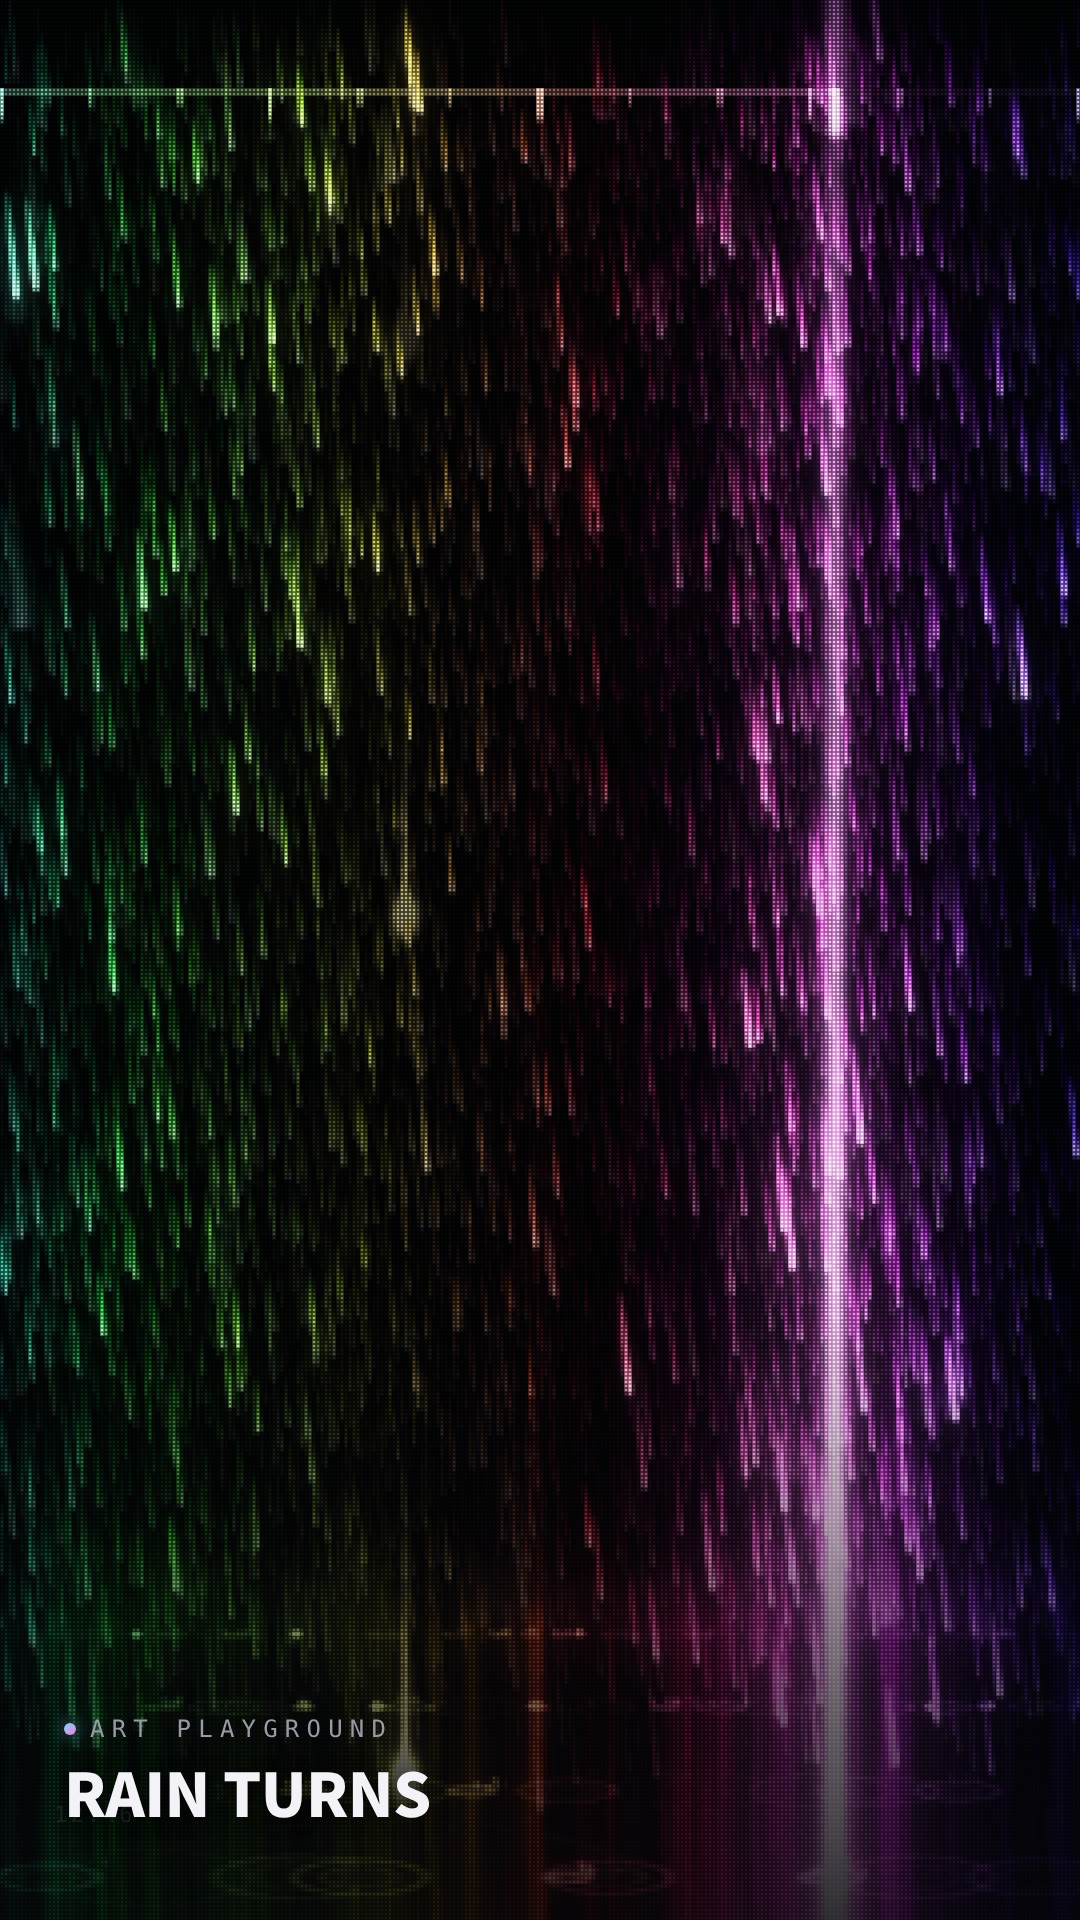
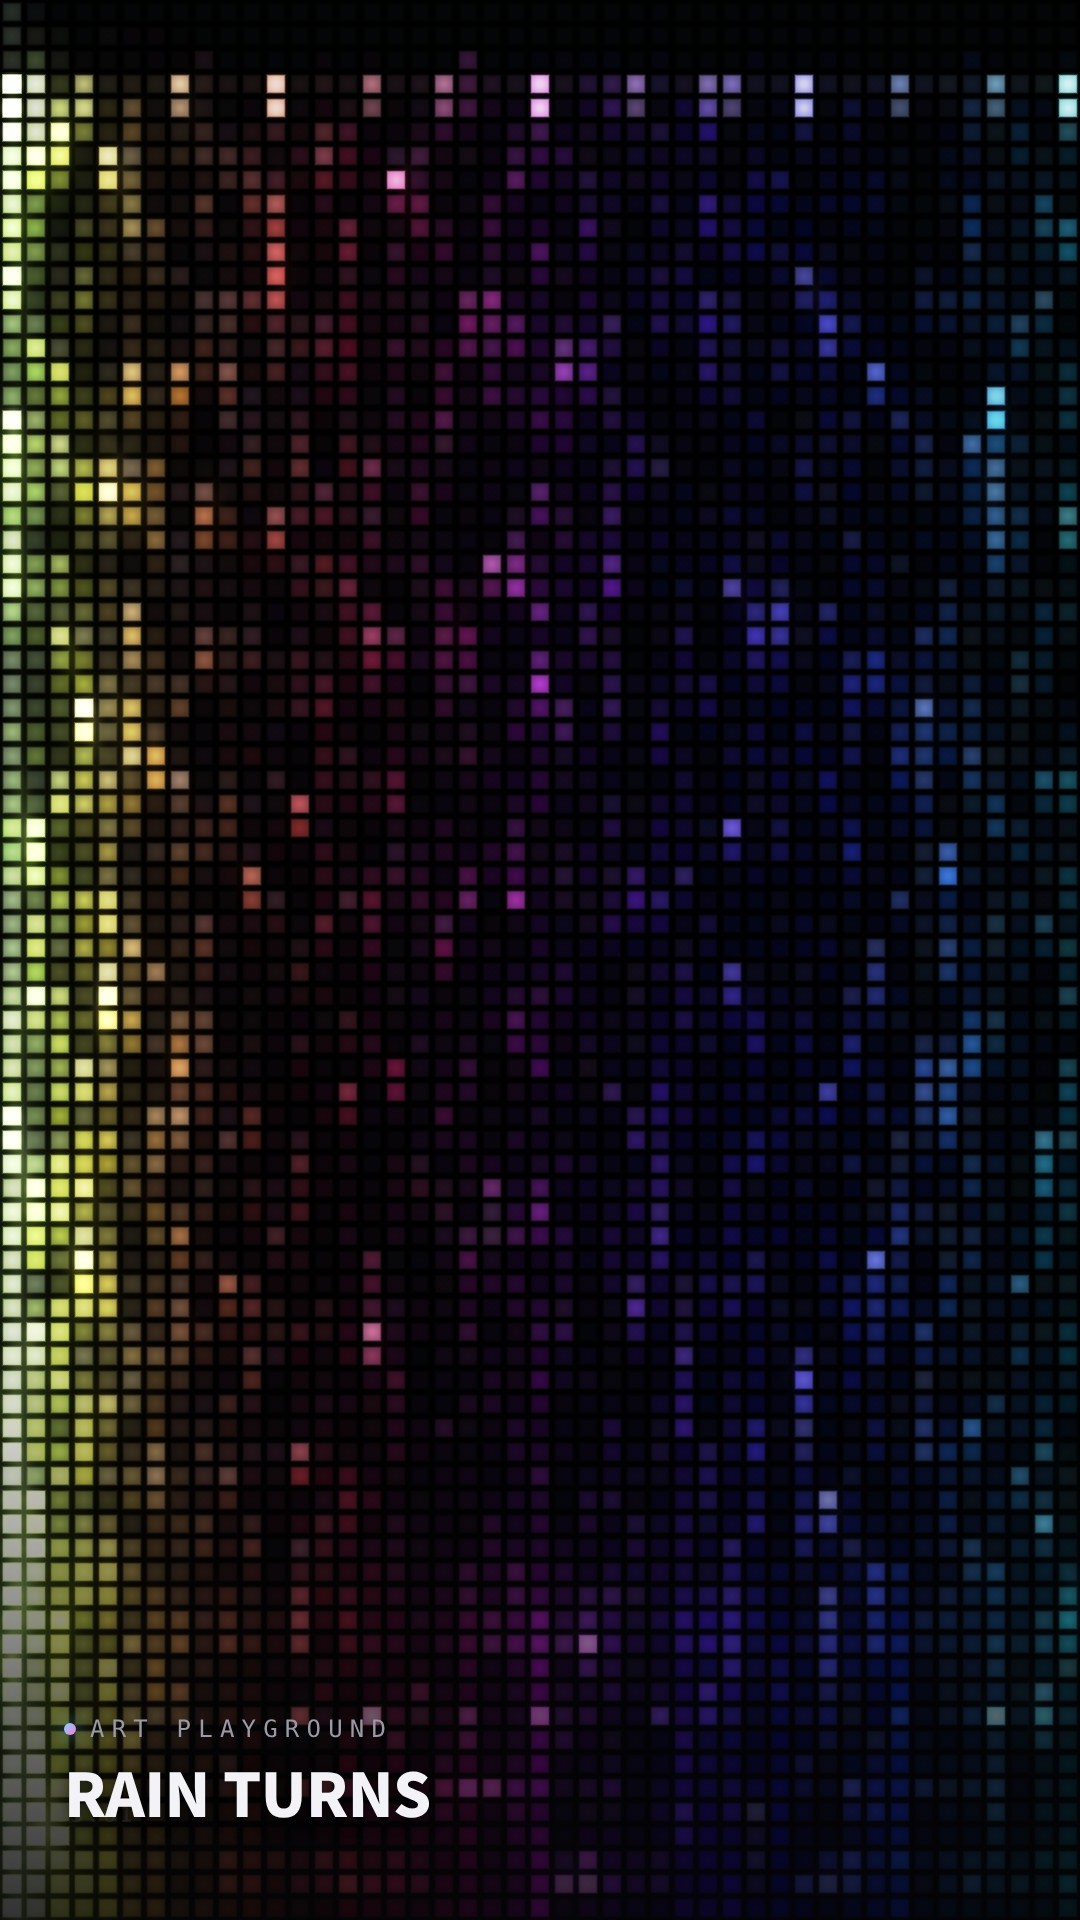
RAIN TURNS: add dual grain mode (back=XL cells, front=small) via ?cell=dual
Back layer renders the rain magnified with 12px LED cells, front layer
keeps the 2px fine rain. Not added to the automatic per-minute cycle.

Claude-Session: https://claude.ai/code/session_019C65K2NCmDDLr2MsA9MRnb

diff --git a/art-v128-rain-turns.html b/art-v128-rain-turns.html
@@ -198,7 +198,7 @@ FS_HEAD+'uniform sampler2D u_tex;uniform vec2 u_step,u_inv;uniform float u_thr;o
 ' s+=(f(texture(u_tex,uv+u_step*4.).rgb)+f(texture(u_tex,uv-u_step*4.).rgb))*.016;\n'+
 ' o=vec4(s,1.);}');
 var compP=prog('#version 300 es\nlayout(location=0) in vec2 p;void main(){gl_Position=vec4(p,0.,1.);}',
-FS_HEAD+'uniform sampler2D u_a,u_b,u_c,u_m,u_l;uniform vec2 u_inv;uniform float u_cell,u_led,u_mk,u_hue,u_t,u_mf,u_top,u_px;out vec4 o;\n'+COMMON+
+FS_HEAD+'uniform sampler2D u_a,u_b,u_c,u_m,u_l,u_l2;uniform vec2 u_inv;uniform float u_cell2,u_dual,u_cell,u_led,u_mk,u_hue,u_t,u_mf,u_top,u_px;out vec4 o;\n'+COMMON+
 'float hsh(vec2 p){return fract(sin(dot(p,vec2(127.1,311.7)))*43758.5453);}\n'+
 'void main(){vec2 uv=gl_FragCoord.xy*u_inv;\n'+
 ' vec3 c;\n'+
@@ -224,29 +224,38 @@ FS_HEAD+'uniform sampler2D u_a,u_b,u_c,u_m,u_l;uniform vec2 u_inv;uniform float 
 '   vq=vq*(1.-.45*min(1.,line+tick))+tc;}\n'+
 '  float glow=exp(-dot(f,f)*7.)*.35;\n'+                                          // 一粒ずつのにじみ
 '  c=vq*(led*1.6+glow)*seam+vec3(off*.8,off*.85,off)+texture(u_b,uv).rgb*.45+texture(u_c,uv).rgb*.6;\n'+
+'  if(u_dual>.5){vec2 cid2=floor(gl_FragCoord.xy/u_cell2);vec2 f2=fract(gl_FragCoord.xy/u_cell2)-.5;vec3 v2=texelFetch(u_l2,ivec2(cid2),0).rgb;\n'+
+'   float d2=max(abs(f2.x),abs(f2.y))*2.;float led2=smoothstep(.86,.62,d2)*(1.+.35*(1.-length(f2)*2.));float glow2=exp(-dot(f2,f2)*7.)*.35;\n'+
+'   vec3 back=v2*(led2*1.6+glow2)*.7;float fl=max(max(c.r,c.g),c.b);c+=back*(1.-clamp(fl*1.3,0.,1.));}\n'+
 ' }else{float mk=smoothstep(.25,.6,texture(u_m,uv).r)*u_mk;vec3 a=texture(u_a,uv).rgb;float lm=max(max(a.r,a.g),a.b);c=mix(a,vec3(1.,.82,.45)*lm*1.35,mk)+texture(u_b,uv).rgb*.55+texture(u_c,uv).rgb*.8;}\n'+
 ' c=c/(1.+max(c-.8,0.)*.8);o=vec4(c,1.);}');
 // ---------- LEDの粒ごとの明るさ(1粒=1テクセル)。粒の中を9点で拾って平均と最大の間をとり、前のコマから滑らかにつなぐ(点くときは素早く、消えるときは少し残光) ----------
 var cellP=prog('#version 300 es\nlayout(location=0) in vec2 p;void main(){gl_Position=vec4(p,0.,1.);}',
-FS_HEAD+'uniform sampler2D u_a,u_p;uniform vec2 u_inv;uniform float u_cell,u_up,u_dec,u_first;out vec4 o;\n'+
+FS_HEAD+'uniform sampler2D u_a,u_p;uniform vec2 u_inv;uniform vec4 u_xf;uniform float u_cell,u_up,u_dec,u_first;out vec4 o;\n'+
 'float hsh(vec2 p){return fract(sin(dot(p,vec2(127.1,311.7)))*43758.5453);}\n'+
-'void main(){vec2 cid=floor(gl_FragCoord.xy);vec2 cc=(cid+.5)*u_cell*u_inv;vec2 st=u_cell*u_inv/3.;\n'+
+'void main(){vec2 cid=floor(gl_FragCoord.xy);vec2 cc=(cid+.5)*u_cell*u_inv*u_xf.xy+u_xf.zw;vec2 st=u_cell*u_inv*u_xf.xy/3.;\n'+
 ' vec3 sm=vec3(0.),mx=vec3(0.);for(int j=-1;j<=1;j++)for(int i=-1;i<=1;i++){vec3 x=texture(u_a,cc+vec2(float(i),float(j))*st).rgb;sm+=x;mx=max(mx,x);}\n'+
 ' vec3 v=mix(sm/9.*1.3,mx,.5);v=pow(max(v-.03,0.),vec3(1.35))*2.2;v*=.92+.16*hsh(cid);\n'+
 ' float lum=max(max(v.r,v.g),v.b);v/=max(lum,1.);\n'+
 ' vec3 pv=texelFetch(u_p,ivec2(cid),0).rgb;\n'+
 ' vec3 r=mix(max(v,pv*u_dec),mix(pv,v,u_up),step(pv,v));\n'+
 ' o=vec4(u_first>.5?v:r,1.);}');
-var cellRT=null,cellIdx=0,cellFirst=true;
+var cellSets=[{rt:null,idx:0,first:true},{rt:null,idx:0,first:true}];   // 0=前(手前の粒)・1=奥(2026/11/28「奥に特大、前に小」)
 function mkCellRT(w,h){var t=gl.createTexture();gl.bindTexture(gl.TEXTURE_2D,t);gl.texImage2D(gl.TEXTURE_2D,0,gl.RGBA8,w,h,0,gl.RGBA,gl.UNSIGNED_BYTE,null);
   gl.texParameteri(gl.TEXTURE_2D,gl.TEXTURE_MIN_FILTER,gl.NEAREST);gl.texParameteri(gl.TEXTURE_2D,gl.TEXTURE_MAG_FILTER,gl.NEAREST);
   gl.texParameteri(gl.TEXTURE_2D,gl.TEXTURE_WRAP_S,gl.CLAMP_TO_EDGE);gl.texParameteri(gl.TEXTURE_2D,gl.TEXTURE_WRAP_T,gl.CLAMP_TO_EDGE);
   var f=gl.createFramebuffer();gl.bindFramebuffer(gl.FRAMEBUFFER,f);gl.framebufferTexture2D(gl.FRAMEBUFFER,gl.COLOR_ATTACHMENT0,gl.TEXTURE_2D,t,0);
   gl.bindFramebuffer(gl.FRAMEBUFFER,null);return {t:t,f:f,w:w,h:h};}
-function ensureCellRT(cpx){var w=Math.ceil(W/cpx)+1,h=Math.ceil(H/cpx)+1;
-  if(cellRT&&cellRT[0].w===w&&cellRT[0].h===h)return;
-  if(cellRT)cellRT.forEach(function(r){gl.deleteTexture(r.t);gl.deleteFramebuffer(r.f);});
-  cellRT=[mkCellRT(w,h),mkCellRT(w,h)];cellFirst=true;}
+function ensureCellRT(set,cpx){var w=Math.ceil(W/cpx)+1,h=Math.ceil(H/cpx)+1;
+  if(set.rt&&set.rt[0].w===w&&set.rt[0].h===h)return;
+  if(set.rt)set.rt.forEach(function(r){gl.deleteTexture(r.t);gl.deleteFramebuffer(r.f);});
+  set.rt=[mkCellRT(w,h),mkCellRT(w,h)];set.first=true;}
+function runCell(set,cpx,xf,dt){ensureCellRT(set,cpx);var cdst=set.rt[set.idx],csrc=set.rt[1-set.idx];
+  gl.bindFramebuffer(gl.FRAMEBUFFER,cdst.f);gl.viewport(0,0,cdst.w,cdst.h);gl.useProgram(cellP.p);
+  gl.activeTexture(gl.TEXTURE0);gl.bindTexture(gl.TEXTURE_2D,RT.sc.t);gl.uniform1i(cellP.u.u_a,0);
+  gl.activeTexture(gl.TEXTURE1);gl.bindTexture(gl.TEXTURE_2D,csrc.t);gl.uniform1i(cellP.u.u_p,1);
+  gl.uniform2f(cellP.u.u_inv,1/W,1/H);gl.uniform4f(cellP.u.u_xf,xf[0],xf[1],xf[2],xf[3]);gl.uniform1f(cellP.u.u_cell,cpx);gl.uniform1f(cellP.u.u_up,1-Math.exp(-dt*45));gl.uniform1f(cellP.u.u_dec,Math.exp(-dt*11));gl.uniform1f(cellP.u.u_first,set.first?1:0);
+  gl.drawArrays(gl.TRIANGLE_STRIP,0,4);set.first=false;set.idx=1-set.idx;}
 function mkRT(w,h){var t=gl.createTexture();gl.bindTexture(gl.TEXTURE_2D,t);gl.texImage2D(gl.TEXTURE_2D,0,gl.RGBA8,w,h,0,gl.RGBA,gl.UNSIGNED_BYTE,null);
   gl.texParameteri(gl.TEXTURE_2D,gl.TEXTURE_MIN_FILTER,gl.LINEAR);gl.texParameteri(gl.TEXTURE_2D,gl.TEXTURE_MAG_FILTER,gl.LINEAR);
   gl.texParameteri(gl.TEXTURE_2D,gl.TEXTURE_WRAP_S,gl.CLAMP_TO_EDGE);gl.texParameteri(gl.TEXTURE_2D,gl.TEXTURE_WRAP_T,gl.CLAMP_TO_EDGE);
@@ -320,10 +329,10 @@ function resize(){var s=dpr*qscale;W=Math.max(2,Math.round(innerWidth*s));H=Math
 addEventListener('resize',resize);resize();
 
 var hueBlk=null,hueT=0,hueV=0,rDir=1,rPh=0,phV=0,phH=0,dirV=1,dirH=1,wH=0,preV=0;var LED=Q.get('led')!=='0';
-var GRAIN=[8.4,12,16,24,4.2,2.1,0],GNAME=['LEDの粒: 大(約8px)','LEDの粒: 特大(約12px)','LEDの粒: 超特大(約16px)','LEDの粒: 巨大(約24px)','LEDの粒: 中(約4px)','LEDの粒: 小(約2px)','LEDなし(元の描き方)'],gi=0;   // 2026/11/28「あえて大きくした方がインパクトある」→ 既定は大   // 粒の大きさの見比べ(?cell=4/8/2/0 か下の▦ボタン)
+var GRAIN=[8.4,12,16,24,4.2,2.1,0,2.1],GNAME=['LEDの粒: 大(約8px)','LEDの粒: 特大(約12px)','LEDの粒: 超特大(約16px)','LEDの粒: 巨大(約24px)','LEDの粒: 中(約4px)','LEDの粒: 小(約2px)','LEDなし(元の描き方)','LEDの粒: 奥=特大(約12px)・前=小(約2px)'],gi=0;   // 2026/11/28「あえて大きくした方がインパクトある」→ 既定は大   // 粒の大きさの見比べ(?cell=4/8/2/0 か下の▦ボタン)
 var gAuto=true,gOff=0,AUTO_G=[0,1,2,3,5,6];   // 2026/11/28「7分一周はいかんなー」→ 中(4px)を外して6分で1周(1時間でちょうど10周、毎時0分は大から)   // 2026/11/28「2と元も入れてよ」→ 小(2px)とLEDなしも順番に入れる
    // 2026/11/28「1分おきに大きさを自動で変更にして」→ 毎分、大→特大→超特大→巨大→中 の順に粒が変わる(▦で順番を1つ進める)
-(function(){var c=Q.get('cell');if(c!==null){var k={'8':0,'12':1,'16':2,'24':3,'4':4,'2':5,'0':6}[c];if(k!==undefined){gi=k;gAuto=false;}}})();   // LEDパネル表示(?led=0 で元の描き方)
+(function(){var c=Q.get('cell');if(c!==null){var k={'8':0,'12':1,'16':2,'24':3,'4':4,'2':5,'0':6,'dual':7}[c];if(k!==undefined){gi=k;gAuto=false;}}})();   // LEDパネル表示(?led=0 で元の描き方)
 var touch={x:.5,y:.5,s:0,down:false};
 function setT(e){touch.x=e.clientX/innerWidth;touch.y=e.clientY/innerHeight;}
 addEventListener('pointerdown',function(e){if(window.APKit&&APKit.isUI&&APKit.isUI(e.clientX,e.clientY))return;touch.down=true;setT(e);touch.s=1;});
@@ -375,14 +384,11 @@ function frame(now){
   pass(blurP,RT.sc,RT.q1,3/W,0,.15);pass(blurP,RT.q1,RT.q2,0,1.6/RT.q1.h,0);
   pass(blurP,RT.q2,RT.e1,2.2/RT.q2.w,0,0);pass(blurP,RT.e1,RT.e2,0,2.2/RT.e1.h,0);
   var cpx=Math.max(2,Math.round(GRAIN[gi]*W/innerWidth)),useLed=LED&&GRAIN[gi]>0;
-  if(useLed){ensureCellRT(cpx);var cdst=cellRT[cellIdx],csrc=cellRT[1-cellIdx];
-    gl.bindFramebuffer(gl.FRAMEBUFFER,cdst.f);gl.viewport(0,0,cdst.w,cdst.h);gl.useProgram(cellP.p);
-    gl.activeTexture(gl.TEXTURE0);gl.bindTexture(gl.TEXTURE_2D,RT.sc.t);gl.uniform1i(cellP.u.u_a,0);
-    gl.activeTexture(gl.TEXTURE1);gl.bindTexture(gl.TEXTURE_2D,csrc.t);gl.uniform1i(cellP.u.u_p,1);
-    gl.uniform2f(cellP.u.u_inv,1/W,1/H);gl.uniform1f(cellP.u.u_cell,cpx);gl.uniform1f(cellP.u.u_up,1-Math.exp(-dt*45));gl.uniform1f(cellP.u.u_dec,Math.exp(-dt*11));gl.uniform1f(cellP.u.u_first,cellFirst?1:0);
-    gl.drawArrays(gl.TRIANGLE_STRIP,0,4);cellFirst=false;cellIdx=1-cellIdx;}
+  var dual=(gi===7)&&useLed;   // 奥=特大(約12px)・前=小(約2px)を同じ画面に重ねる(?cell=dual)
+  if(useLed){runCell(cellSets[0],cpx,[1,1,0,0],dt);if(dual)runCell(cellSets[1],Math.max(2,Math.round(12*W/innerWidth)),[.82,.82,.09,.04],dt);}
   gl.bindFramebuffer(gl.FRAMEBUFFER,null);gl.viewport(0,0,W,H);gl.useProgram(compP.p);
-  if(useLed){gl.activeTexture(gl.TEXTURE4);gl.bindTexture(gl.TEXTURE_2D,cellRT[1-cellIdx].t);gl.uniform1i(compP.u.u_l,4);}
+  if(useLed){gl.activeTexture(gl.TEXTURE4);gl.bindTexture(gl.TEXTURE_2D,cellSets[0].rt[1-cellSets[0].idx].t);gl.uniform1i(compP.u.u_l,4);}
+  gl.uniform1f(compP.u.u_dual,dual?1:0);if(dual){gl.activeTexture(gl.TEXTURE5);gl.bindTexture(gl.TEXTURE_2D,cellSets[1].rt[1-cellSets[1].idx].t);gl.uniform1i(compP.u.u_l2,5);gl.uniform1f(compP.u.u_cell2,Math.max(2,Math.round(12*W/innerWidth)));}
   gl.activeTexture(gl.TEXTURE0);gl.bindTexture(gl.TEXTURE_2D,RT.sc.t);gl.uniform1i(compP.u.u_a,0);
   gl.activeTexture(gl.TEXTURE1);gl.bindTexture(gl.TEXTURE_2D,RT.q2.t);gl.uniform1i(compP.u.u_b,1);
   gl.activeTexture(gl.TEXTURE2);gl.bindTexture(gl.TEXTURE_2D,RT.e2.t);gl.uniform1i(compP.u.u_c,2);

diff --git a/CHANGELOG.md b/CHANGELOG.md
@@ -1,3 +1,4 @@
+- 2026-11-28 クロちゃん: RAIN TURNS(art-v128)に「奥=特大・前=小」を同じ画面に重ねる粒の表示を追加(おっちゃん「特大と小は同じに描写できる？」→「同じ画面によ、奥に特大、前に小」)。`?cell=dual`で出す。前は小(約2px)の細かい雨、奥は同じ雨を少し拡大してずらし、特大(約12px)の粒で描いて前の雨の暗いところに透ける(前が明るい所は奥を弱める)。目盛り・光の柱・一滴は前の小の粒のもの。cellP(粒ごとの明るさ)に読み取り位置の変換(u_xf)を足し、粒の状態をセット(前・奥)に整理。**毎分の自動の順番(6分で1周)には入れていない**(7分1周がNGなので、どれと入れ替えるかおっちゃんの判断待ち)。▦ボタンの動きも変えていない。確認: ヘッドレスChromium・390×844で、?cell=dualと?cell=2を並べて目で確認、コンソールエラーなし、既定の表示で録画(mp4・720×1558)が通る。ポスター・OGPカード・IG縦型カバーはこの作品の分だけ作り直した。**スマホ実機での重さは未確認**(粒の計算の描画が1回増える。小さな描画先なので軽いはず)(art-v128-rain-turns.html, posters/, og/, reel/, CHANGELOG.md)
 - 2026-11-28 クロちゃん: BEAD CURTAINを採用・art-v129として昇格し、ギャラリーLOG先頭に追加、録画の対象にも追加(おっちゃん「これはこれで美しいね　採用で」「録画もね」。CURRENTの指定は無かったのでCURRENTはGLASS RELAYのまま)。`prototypes/bead-curtain.html`をコピーして、ap-kit.jsの相対パスをルート用に直し、冒頭に昇格の注記を追加(試作版は残す)。表示名はBEAD CURTAIN(元の仮名のまま)。LOGはRAIN TURNS(v128)の上。Published worksはRAIN TURNSの直後、`META`に操作ヒント「眺めるだけで光が糸を流れ落ちる。なぞると触れた糸に光が走る」、`REC_WORKS`に`art-v129-bead-curtain.html`、sitemap.xmlに`/art-v129-bead-curtain`を追加。`tools/poster-config.json`に`hide:#hint`・待ち3.5秒を1行追加(最初に出る操作説明がポスターに写らないように)。ポスター・OGPカード・IG縦型カバー(`reel/`)をこの作品の分だけ生成し、`gen_posters.py --check`・`gen_og.py --check`とも終了コード0(ポスターに文字は写っていないことを目視で確認)。確認: スマホ(Android Chrome)のUA・390×844のヘッドレスChromiumで、ギャラリーから`?open=`で開き、録画ボタンが出て、録画→停止でプレビューにmp4(720×1558・約3.9秒)ができ、作品と2行の透かしが映ることを確認。コンソールエラーは外部広告の読み込み失敗(テスト環境の制限)だけ。**スマホ実機での見た目・録画中の重さは未確認**(Canvas 2D、1フレームに糸約100本の玉を数千個描く。GPUなしの環境で約17fps。重い端末は糸の本数を自動で減らす。録画で重ければ`REC_WORKS`から外す)。メモ: `gen_og.py --reel --check`は、`reel/`に未登録の作品が多く(REC_WORKSなのにreel/に無いもの)終了コード1のまま。この昇格より前からの状態で、今回の作品の分はOK(art-v129-bead-curtain.html, prototypes/bead-curtain.html, index.html, posters/, og/, reel/, tools/poster-config.json, sitemap.xml, CHANGELOG.md)
 - 2026-11-28 クロちゃん: 新しい試作BEAD CURTAIN(仮、prototypes/bead-curtain.html)を追加(おっちゃん「(元動画と違くなったので)別作品としてやろうか」)。Starkapoo氏の元動画をフレーム解析して作りを写した: 細い糸が縦に並び糸の位置は動かない(ずれを測るとほぼ0)/糸の上に小さな縦長の玉が点線のように並ぶ/玉の明るい塊が糸ごとに違う速さでゆっくり流れ落ちる(降るのは光で、糸ではない)/奥にピントの外れた丸い光/画面中のくっきりした小さな火花/下ほど明るく、太い色の光の柱と下の虹のにじみ/色は横位置(左端=黄緑・橙→赤→マゼンタ→紫→青→シアン→右端=緑)。時計は元の「光の柱=分(横幅0〜59を1時間で左→右)・落ちる一滴=秒」と同じ考え方で、数字・文字は出さない(🕐でap-kitの時計)。✦=色をずらして光の塊を作り直す、↻=元に戻す、なぞると触れた糸に光が走る。色は20秒ごとに少しずつずれる。?t=HH:MM:SS、?hue=0〜1。Canvas 2D・Wake Lock。確認(ヘッドレスChromium・390×844・GPUなし): コンソールエラーなし、元動画と並べて目で比べて調整(最初は暗く粒がまばらだったので、糸を密に・玉を明るく・火花と光の柱を足した)、2枚の画面で動いていることを確認。GPUなしの環境では約17fpsだった(実機の値ではない)。奥の糸の玉と火花は間引いて軽くし、重い端末は糸の本数を自動で減らす。**スマホ実機での見た目・重さは未確認**(ギャラリー未登録・採用待ち。名前は仮)(prototypes/bead-curtain.html, CHANGELOG.md)
 - 2026-11-28 クロちゃん: 試作QUANTUM RAINを採用・art-v128「RAIN TURNS」として昇格し、ギャラリーLOG先頭に追加、録画の対象にも追加(おっちゃん「採用、録画つけてね、名前も考えて」。CURRENTの指定は無かったのでCURRENTはGLASS RELAYのまま)。名前は、元にしたStarkapoo氏の動画名(Quantum Rain)と分けて、1分ごとに雨の向きが入れ替わる動きから RAIN TURNS に。`prototypes/quantum-rain.html`をコピーして、ap-kit.jsの相対パスをルート用に直し、`<title>`を「RAIN TURNS — 光の雨が毎分、降る向きを入れ替える」・gifNameを変更、冒頭に昇格の注記を追加(試作版は残す)。最初のヒント文が古かった(「横幅が0〜59の目盛り」。いまは上の端の目盛り)ので「上の端の目盛りが時間(光の針=いまの分)」に直した。Published worksはGLASS RELAYの直後に追加、`META`に操作ヒント「1分ごとに雨の向きと粒の大きさが変わる。上の端の目盛りが時間」を追加、`REC_WORKS`に`art-v128-rain-turns.html`を追加、sitemap.xmlに`/art-v128-rain-turns`を追加。ポスター・OGPカード・IG縦型カバー(`reel/`)を、この作品の分だけ生成し、`gen_posters.py --check`・`gen_og.py --check`・`gen_og.py --reel --check`とも終了コード0(ポスターに文字は写っていない)。確認: スマホ(Android Chrome)のUA・390×844のヘッドレスChromiumで、ギャラリーから`?open=`で開き、録画ボタンが出て、録画→停止でプレビューにmp4(720×1558・約3.6秒)ができ、作品と2行の透かしが映ることを確認。コンソールエラーは外部広告の読み込み失敗(テスト環境の制限)だけ。**スマホ実機での録画中の重さは未確認**(WebGLのシェーダー+LEDの粒の描画先。重ければ`REC_WORKS`から外す)。**気づいた点**: おっちゃんから、Starkapoo氏の元動画(細い点線の筋が長く密に降り、下に虹色のにじみ)と比べて「なんか違くなったよね？」との指摘。LEDの粒を大きくする方向で進めた結果の差で、元動画に寄せる作業は未着手(art-v128-rain-turns.html, prototypes/quantum-rain.html, index.html, posters/, og/, reel/, sitemap.xml, CHANGELOG.md)
